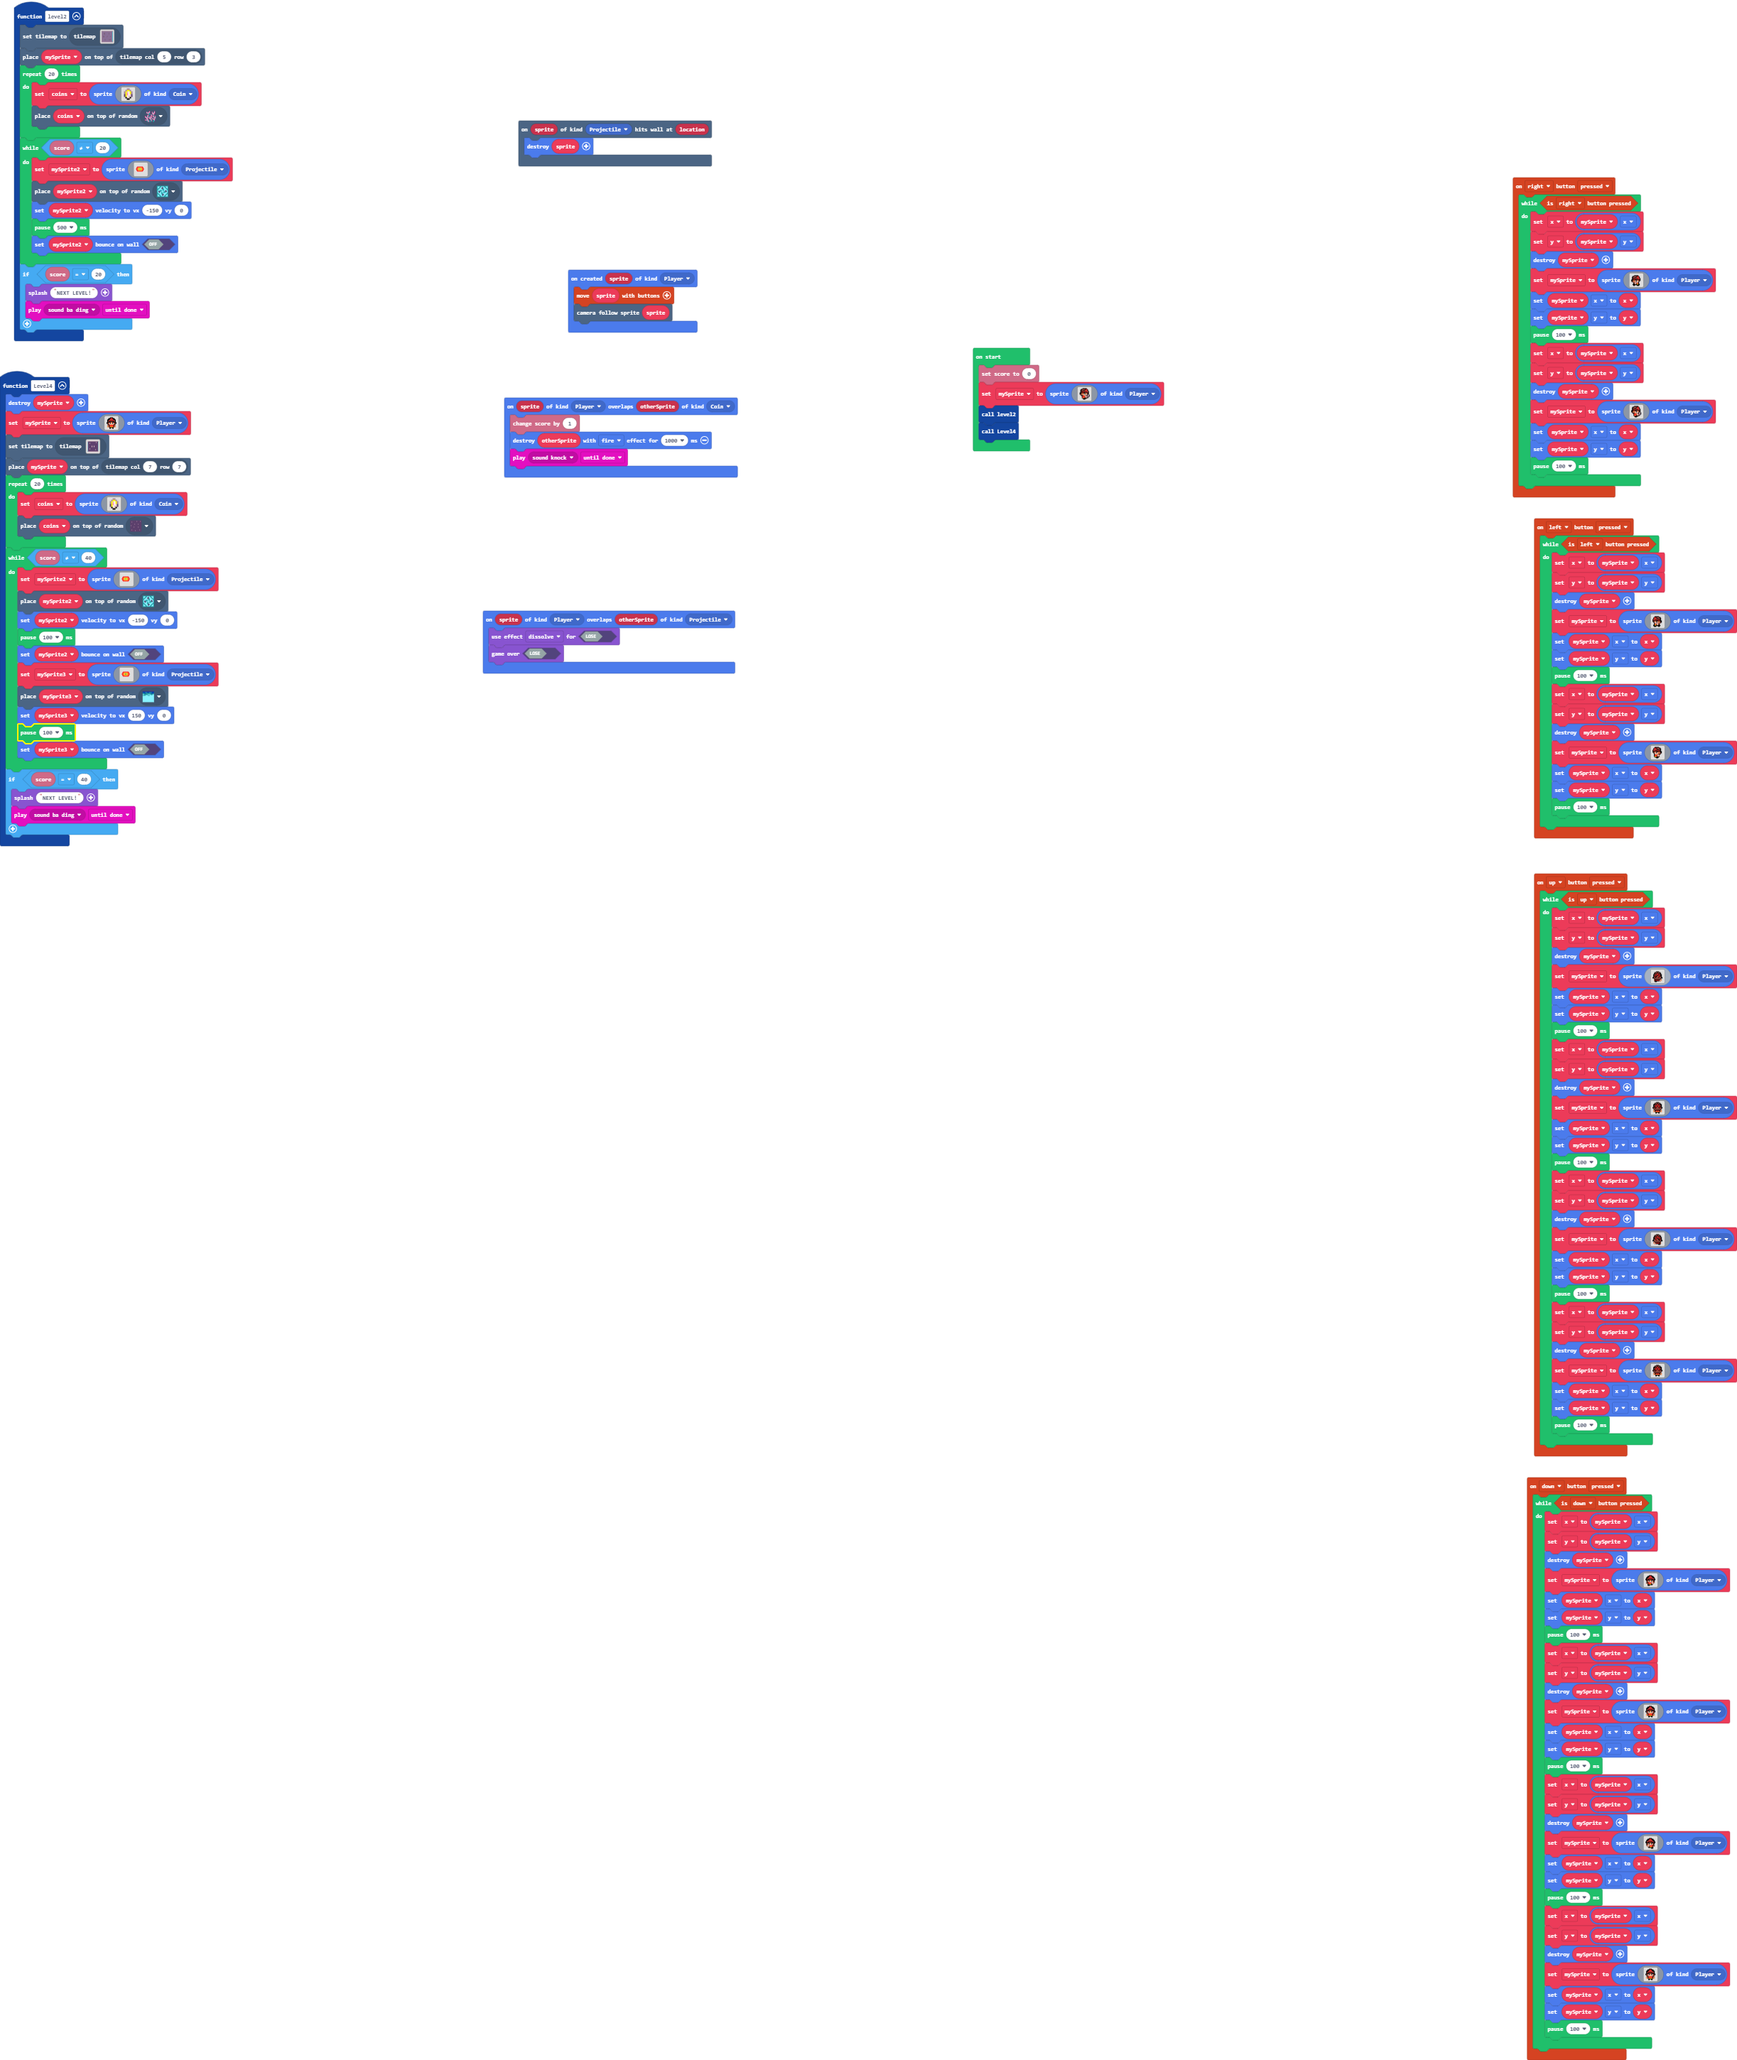
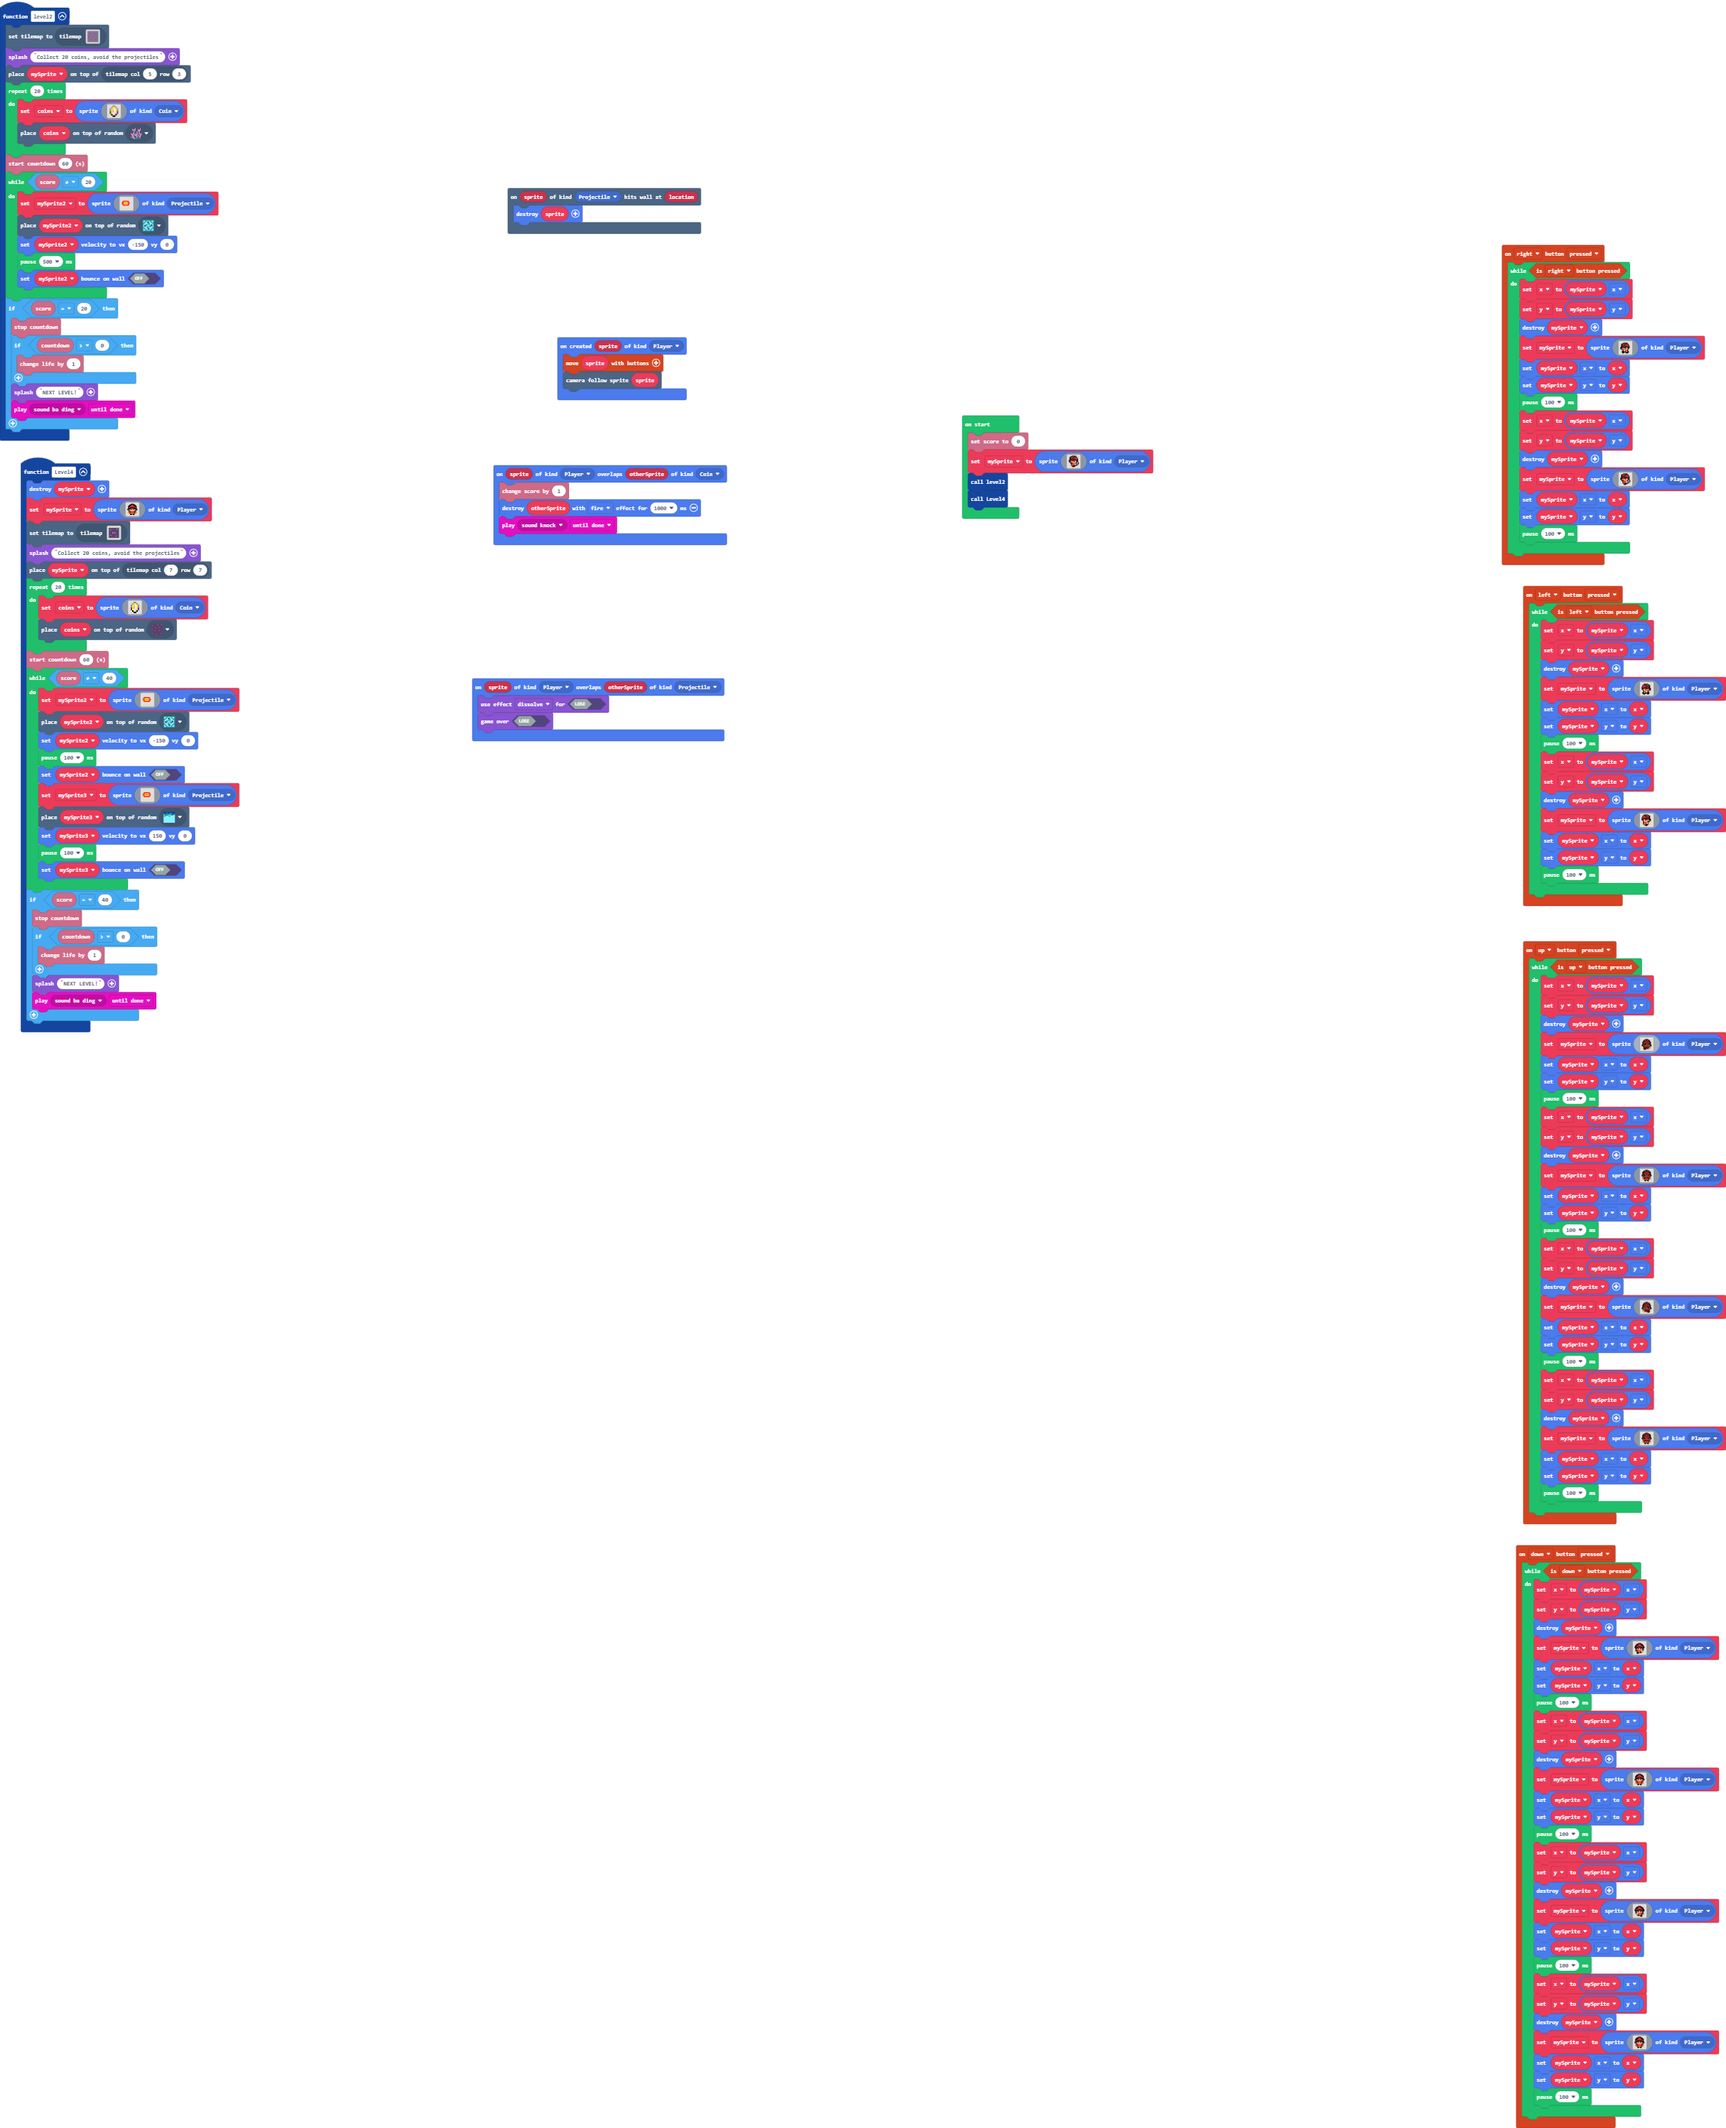
Update main.blocks, main.ts

diff --git a/main.ts b/main.ts
@@ -161,6 +161,7 @@ controller.left.onEvent(ControllerButtonEvent.Pressed, function () {
 })
 function level2 () {
     tiles.setCurrentTilemap(tilemap`level6`)
+    game.splash("Collect 20 coins, avoid the projectiles")
     tiles.placeOnTile(mySprite, tiles.getTileLocation(5, 3))
     for (let index = 0; index < 20; index++) {
         coins = sprites.create(img`
@@ -175,6 +176,7 @@ function level2 () {
             `, SpriteKind.Coin)
         tiles.placeOnRandomTile(coins, sprites.builtin.coral1)
     }
+    info.startCountdown(60)
     while (info.score() != 20) {
         mySprite2 = sprites.create(img`
             . . . . . . . . . . . . . . . . 
@@ -200,6 +202,10 @@ function level2 () {
         mySprite2.setBounceOnWall(false)
     }
     if (info.score() == 20) {
+        info.stopCountdown()
+        if (info.countdown() > 0) {
+            info.changeLifeBy(1)
+        }
         game.splash("NEXT LEVEL!")
         music.play(music.melodyPlayable(music.baDing), music.PlaybackMode.UntilDone)
     }
@@ -384,6 +390,7 @@ function Level4 () {
         . . . . . f f . . f f . . . . . 
         `, SpriteKind.Player)
     tiles.setCurrentTilemap(tilemap`level8`)
+    game.splash("Collect 20 coins, avoid the projectiles")
     tiles.placeOnTile(mySprite, tiles.getTileLocation(7, 7))
     for (let index = 0; index < 20; index++) {
         coins = sprites.create(img`
@@ -398,6 +405,7 @@ function Level4 () {
             `, SpriteKind.Coin)
         tiles.placeOnRandomTile(coins, sprites.dungeon.darkGroundCenter)
     }
+    info.startCountdown(60)
     while (info.score() != 40) {
         mySprite2 = sprites.create(img`
             . . . . . . . . . . . . . . . . 
@@ -445,6 +453,10 @@ function Level4 () {
         mySprite3.setBounceOnWall(false)
     }
     if (info.score() == 40) {
+        info.stopCountdown()
+        if (info.countdown() > 0) {
+            info.changeLifeBy(1)
+        }
         game.splash("NEXT LEVEL!")
         music.play(music.melodyPlayable(music.baDing), music.PlaybackMode.UntilDone)
     }
